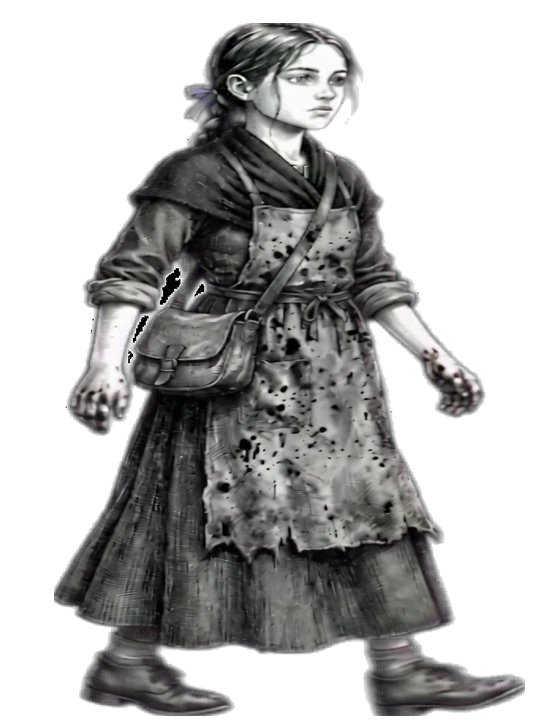
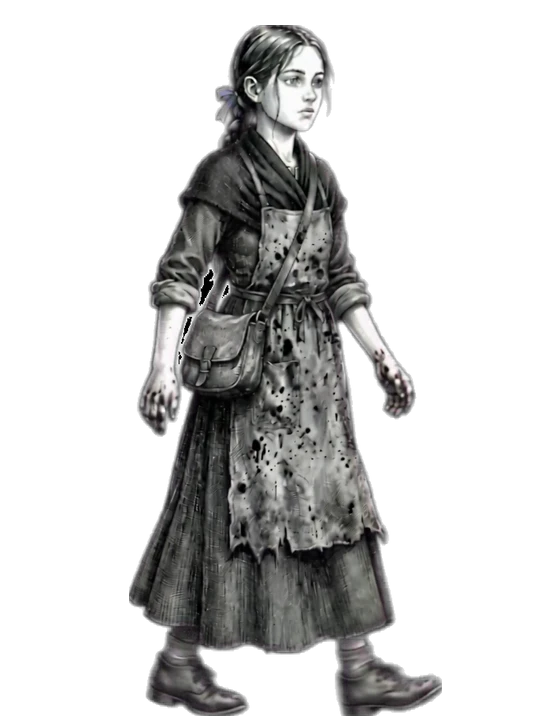
Fix the stretched walk poses; tool to prepare images for video
The two walking videos were made at 960 x 960 from 2:3 images, so the
figures were 1.5 times too wide. Every frame is now squeezed to 2/3 of
its width before the cut-out: head widths now match the standing
images. Lena's steps are shorter, so she moves 14 units per pose.
tools/formato_video.py pads a character image with magenta to 3:4 (the
834 x 1112 video size) so new videos are not stretched.

Claude-Session: https://claude.ai/code/session_018EhJPoJraYHsQQnM3m2GZU

diff --git a/js/gioco.js b/js/gioco.js
@@ -13,8 +13,8 @@ const LENA = {
   durataPosa: 240,         // millisecondi per posa
   sali: [0, 0, 0, 0, 0, 0, 0, 0], // il su e giù è già nelle pose (prese dal video)
 };
-// Velocità legata al passo: Lena avanza di 20 unità per posa, così i piedi non scivolano.
-LENA.velocita = 20 / (LENA.durataPosa / 1000);   // unità della scena al secondo
+// Velocità legata al passo: Lena avanza di 14 unità per posa, così i piedi non scivolano.
+LENA.velocita = 14 / (LENA.durataPosa / 1000);   // unità della scena al secondo
 
 const stato = { stanza: null, idStanza: null, x: 0, verso: 1, cammina: null, visti: {}, flag: {}, borsa: [], fonti: [] };
 

diff --git a/tools/formato_video.py b/tools/formato_video.py
@@ -1,0 +1,31 @@
+"""Prepara l'immagine di un personaggio per il generatore di video, senza deformarla.
+
+Uso: python3 tools/formato_video.py personaggio.png uscita.png [3:4]
+
+Aggiunge fondo magenta (#FF00FF) ai lati (o sopra e sotto) finché l'immagine ha
+le proporzioni chieste (di default 3:4, cioè il formato 834 × 1112 del generatore).
+La figura non cambia: cambia solo lo spazio intorno.
+"""
+import sys
+from PIL import Image
+
+
+def main(src, dst, rapporto='3:4'):
+    a, b = (int(x) for x in rapporto.split(':'))
+    im = Image.open(src).convert('RGB')
+    w, h = im.size
+    if w / h < a / b:                      # troppo stretta: allarga ai lati
+        W, H = round(h * a / b), h
+    else:                                  # troppo larga: allunga sopra e sotto
+        W, H = w, round(w * b / a)
+    out = Image.new('RGB', (W, H), (255, 0, 255))
+    # In basso: i piedi restano vicino al bordo, lo spazio in più va in alto.
+    out.paste(im, ((W - w) // 2, H - h))
+    out.save(dst)
+    print(dst, out.size)
+
+
+if __name__ == '__main__':
+    if len(sys.argv) < 3:
+        sys.exit(__doc__)
+    main(*sys.argv[1:4])

diff --git a/GRAFICA.md b/GRAFICA.md
@@ -80,6 +80,10 @@ Le immagini originali di Gemini restano in `originali/`: servono per rifare i ri
 
 ### Camminata da un video
 
+**Formato del video:** usa le stesse proporzioni dell'immagine di partenza. Le immagini dei personaggi sono 2:3; il formato più vicino tra quelli del generatore è **834 × 1112** (3:4). Prima di caricare l'immagine, allargala a 3:4 aggiungendo magenta ai lati (`tools/formato_video.py`), così il video non deforma la figura.
+
+I primi due video (Lena e Martin) sono stati fatti a 960 × 960: la figura era allargata di 1,5 volte. Le pose sono state corrette stringendo ogni fotogramma a 2/3 della larghezza prima del ritaglio.
+
 Un generatore di video (es. Seedance) fa una camminata sul posto più regolare delle pose di Gemini. Come si usa:
 1. Video del personaggio fermo che cammina sul posto, su fondo magenta, inquadratura fissa.
 2. Cerco il ciclo completo (due passi): il tratto in cui l'ultimo fotogramma è più simile al primo.
@@ -87,7 +91,7 @@ Un generatore di video (es. Seedance) fa una camminata sul posto più regolare d
 
 Martin giovane: video `originali/personaggi/martin-giovane-camminata.mp4`, ciclo di 50 fotogrammi (24 al secondo) dal fotogramma 33, pose dai fotogrammi 33, 39, 45, 52, 58, 64, 71, 77.
 
-Lena: video `originali/personaggi/lena-camminata.mp4`, ciclo di 27 fotogrammi dal fotogramma 61, pose dai fotogrammi 61, 64, 68, 71, 75, 78, 81, 85. Tutte le pose hanno la **stessa scala**: il su e giù del corpo resta quello del video, e nel codice non si aggiunge. Lena avanza di 20 unità della scena per posa (240 ms).
+Lena: video `originali/personaggi/lena-camminata.mp4`, ciclo di 27 fotogrammi dal fotogramma 61, pose dai fotogrammi 61, 64, 68, 71, 75, 78, 81, 85. Tutte le pose hanno la **stessa scala**: il su e giù del corpo resta quello del video, e nel codice non si aggiunge. Lena avanza di 14 unità della scena per posa (240 ms).
 
 ## 7. Buio e luce nel codice
 
